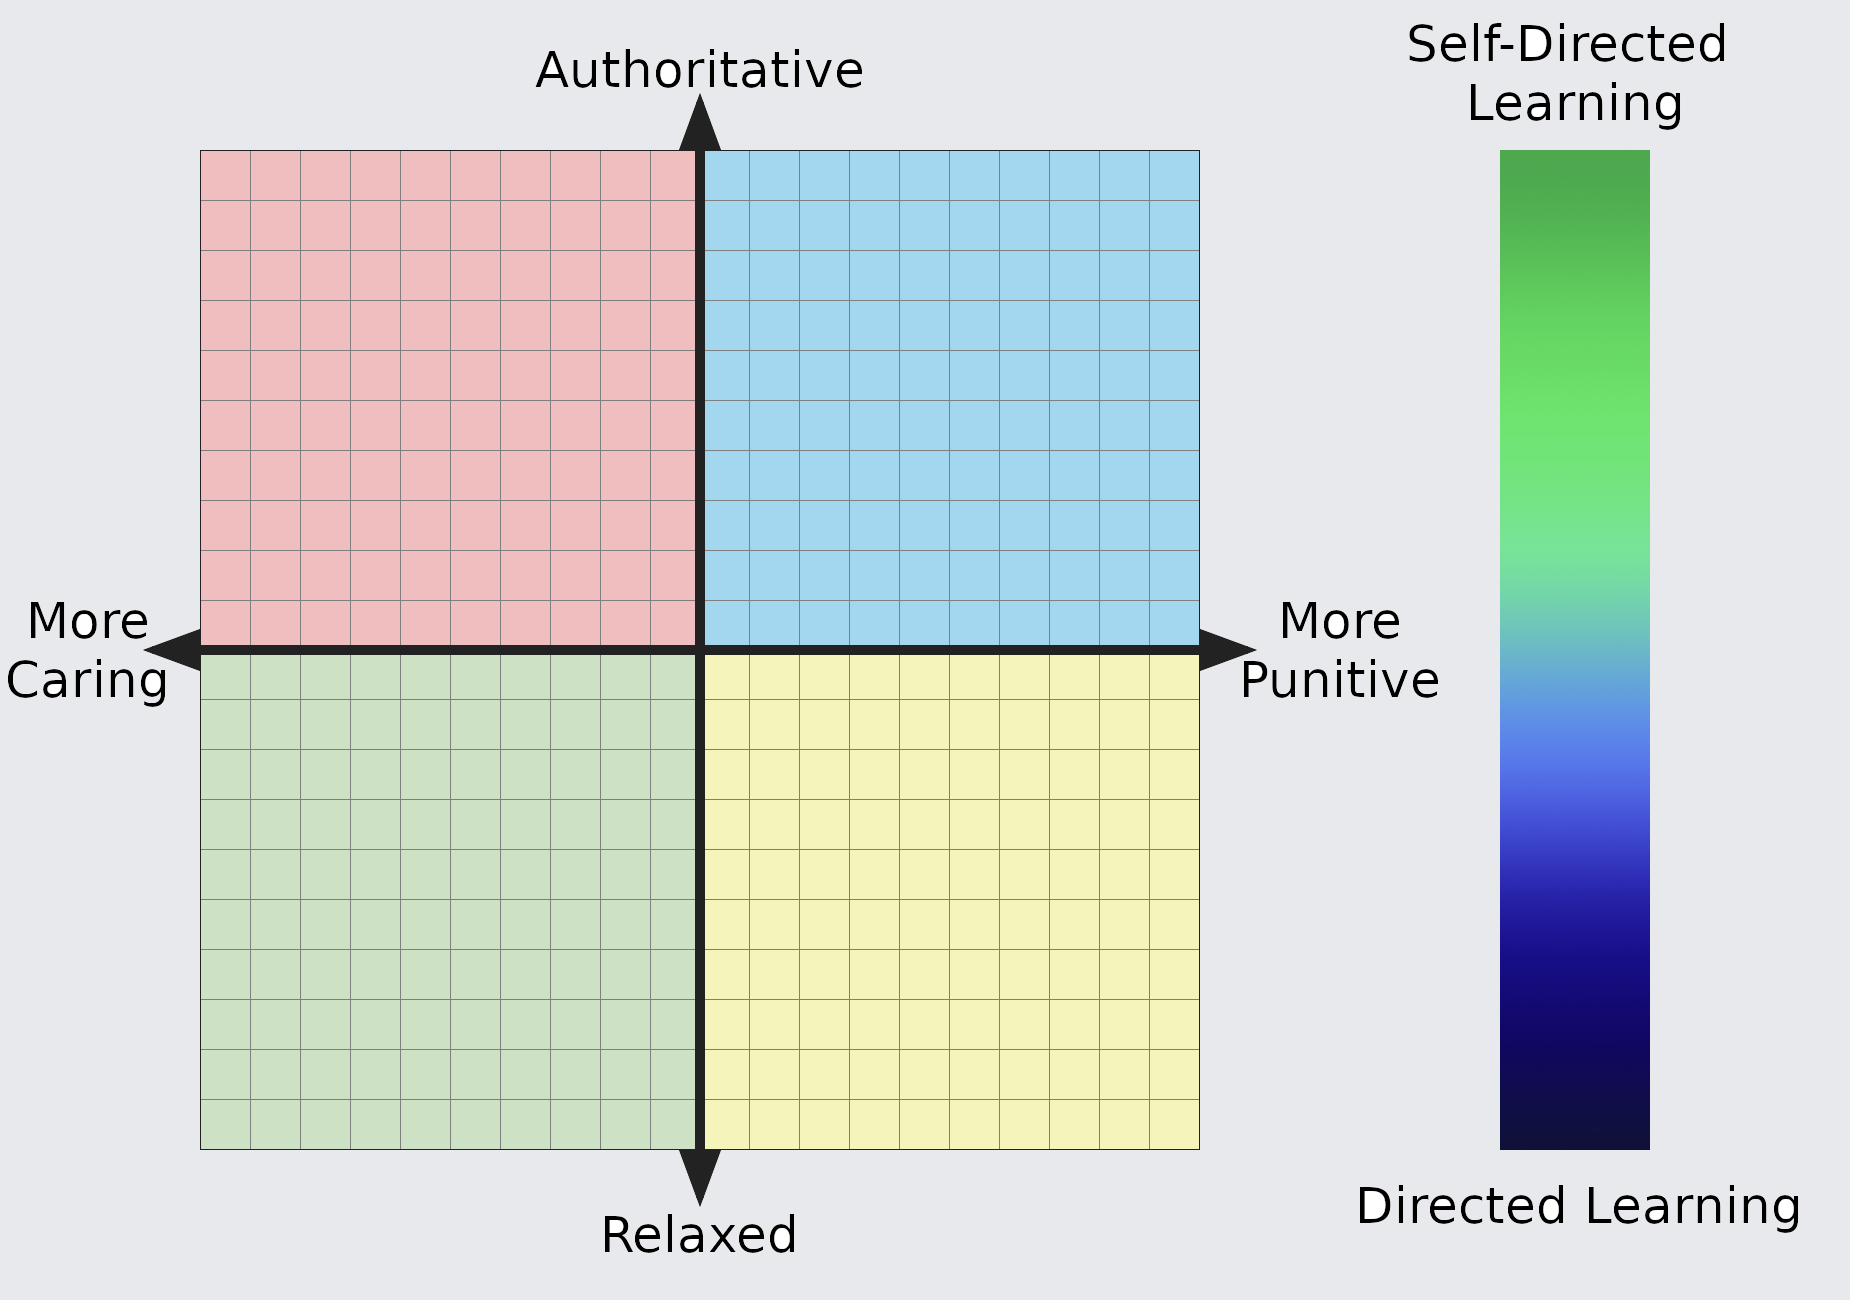
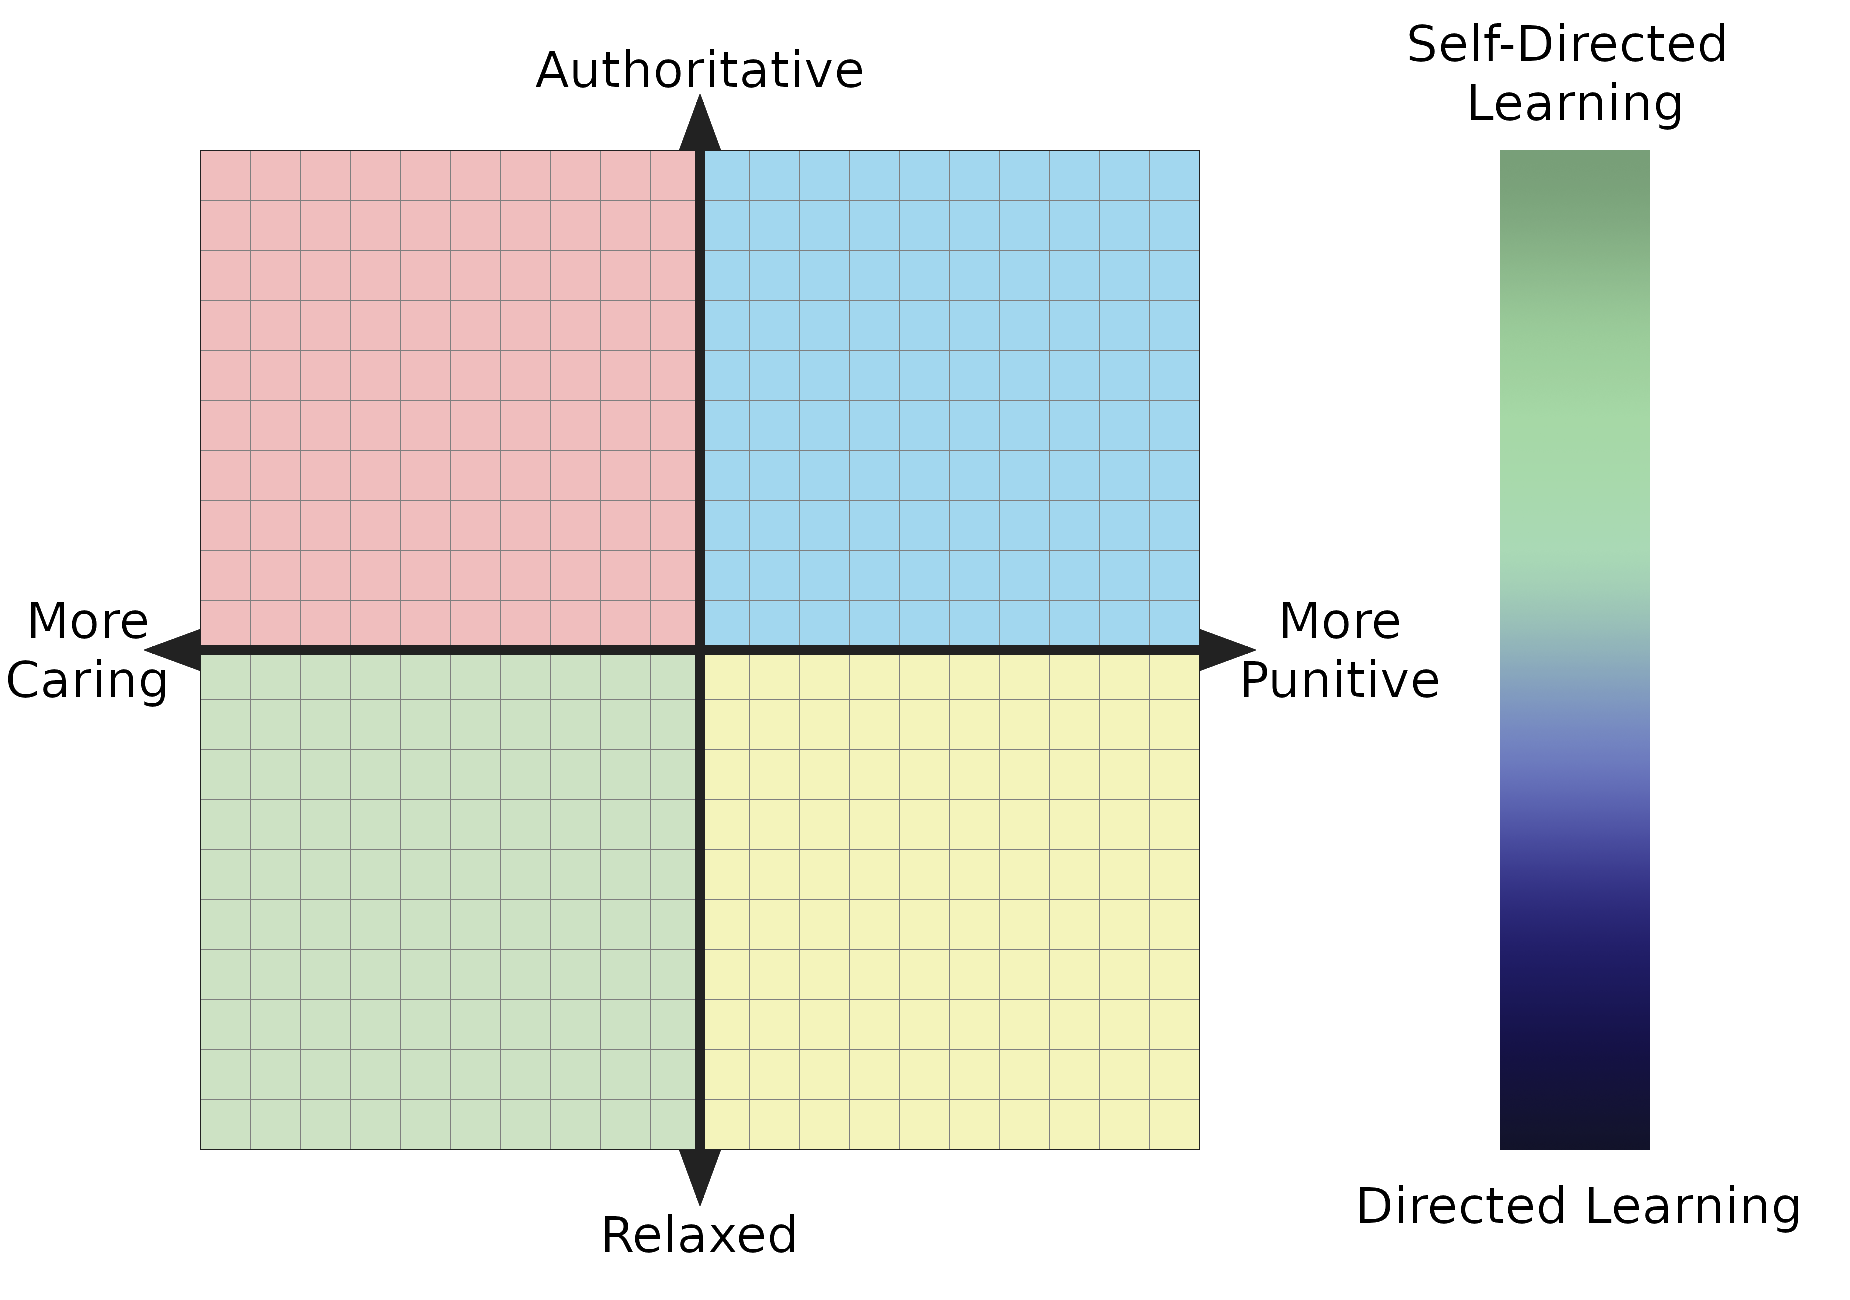
Dark theme now working

Changed region(s): [[0.8011, 0.0923, 0.8935, 0.8308]]

diff --git a/templates/score.html b/templates/score.html
@@ -2,6 +2,7 @@
 
 {% block head %}
   <title> Home - Teacher Compass </title>
+  <link id="pageColors" href="" rel="stylesheet">
 {% endblock %}
 
 {% block content %}
@@ -9,7 +10,7 @@
   <div class="grid-container">
     <!-- Header -->
     <div class="item1">
-        <div class="navbar-title">The Definitive Teacher Compass</div> <div class="navbar-subtext">You are signed in, welcome {{current_user.name}}. <a class="linkButton" href="/home"> Return to homepage </a> <a class="linkButton" href="/logout">Logout</a></div>
+        <div class="navbar-title">The Definitive Teacher Compass</div> <div class="navbar-subtext">You are signed in, welcome {{current_user.name}} <a class="linkButton" onclick="changeTheme()"> Change theme </a> <a class="linkButton" href="/home"> Return to homepage </a> <a class="linkButton" href="/logout">Logout</a></div>
     </div>
 
     <!-- Left spacer
@@ -68,7 +69,7 @@
         </div>
       <p class="info-text"> Welcome to the Burnside teacher compass. On this page you can select
         a teacher and rate them. To return to the main page, click on the link in the top right corner.</p>
-      <br>
+
       <p class="info-text"> <b>X axis:</b> </p>
       <ul>
         <li>More caring: Viewed as more compassionate. You could probably confide and have more casual conversations with them.</li>
@@ -77,14 +78,20 @@
 
       <p class="info-text"> <b>Y axis:</b> </p>
       <ul>
-        <li>Authority: More strict around school guidelines and following directives from the higher ups. Not to be confused with punitive as strict teachers can still be nice. No-nonsense approach to learning. Not someone you would tell a joke to.</li>
-        <li>Relaxed: Less strict around school guidelines. More lenient, especially around minor uniform infractions or being minorly late. Are less controlling over student approaches to learning.</li>
+        <li>Authority: More strict around school guidelines and following directives from the higher ups. Not to be confused
+          with punitive as strict teachers can still be nice. No-nonsense approach to learning. Not someone you would tell a joke to.</li>
+        <li>Relaxed: Less strict around school guidelines. More lenient, especially around minor uniform infractions or being minorly
+          late. Are less controlling over student approaches to learning.</li>
       </ul>
 
       <p class="info-text"> <b>Z axis:</b> </p>
       <ul>
-        <li>Self-directed learning: Less input and control over the path of lessons. Typically more flexible on lessons and time dedicated to certain topics. Class time is more student oriented with plenty of time for students to discuss and individually research. The teacher generally hovers around the class giving assistance to students when it is needed.</li>
-        <li>Directed learning: More input and control over the path of lessons. Less flexible on lessons and time dedicated to certain topics. Class time is teacher oriented with the teacher walking the class through concepts. Little or no time is given to student discussion and individual tasks.</li>
+        <li>Self-directed learning: Less input and control over the path of lessons. Typically more flexible on lessons and time
+          dedicated to certain topics. Class time is more student oriented with plenty of time for students to discuss and individually
+          research. The teacher generally hovers around the class giving assistance to students when it is needed.</li>
+        <li>Directed learning: More input and control over the path of lessons. Less flexible on lessons and time dedicated to certain
+          topics. Class time is teacher oriented with the teacher walking the class through concepts. Little or no time is given to
+          student discussion and individual tasks.</li>
       </ul>
     </div>
 
@@ -102,6 +109,13 @@
 
 {% block script %}
 <script>
+  const drawColor = () => getComputedStyle(document.documentElement).getPropertyValue('--c_draw')
+  const compassImage = () => getComputedStyle(document.documentElement).getPropertyValue('--img_compass')
+
+  window.addEventListener('load', () => {
+    console.log(compassImage());
+  })
+
   function fetchValues() {
     /* Ask the database for the x, y and z values for the newly selected teacher code */
     if (document.querySelector(".teacherCodeSelect").selectedIndex != 0)
@@ -145,18 +159,7 @@
       {
         document.querySelector("[name=zInput]").value = ((((y - 66) - 216) / 216) * 10).toFixed(2);
       }
-
-
-
     }
-
-
-    // Round:
-    //document.querySelectorAll(".axis").forEach(item => {
-    //  item.value = Math.round(item.value * 100) / 100;  // Round to 2dp
-    //});
-
-
     axisUpdated();
   }
 
@@ -170,14 +173,17 @@
   /*console.log("here "); */
   const context = document.querySelector("#compassCanvas").getContext("2d");
   const image = new Image();
-  image.src = "/static/compass.png";
-  image.addEventListener("load", () => {
-    context.drawImage(image, 0, 0, 800, 562);
-    axisUpdated();
-  });
+  window.addEventListener('load', () => {
+    image.src = compassImage();
+    image.addEventListener("load", () => {
+      context.drawImage(image, 0, 0, 800, 562);
+      axisUpdated();
+    });
+  })
 
   function axisUpdated() {
     /*console.log("2") */
+    image.src = compassImage();
     context.clearRect(0, 0, 800, 562);
     context.drawImage(image, 0, 0, 800, 562);
     if (document.querySelector(".teacherCodeSelect").selectedIndex != 0)
@@ -190,7 +196,7 @@
       const posZ = parseFloat(document.querySelector("[name=zInput]").value) * 21.6 + 281;
       context.arc(posX, posY, 5, 0, 2 * Math.PI);
       context.arc(681, posZ, 5, 0, 2 * Math.PI);
-      context.fillStyle = 'red';
+      context.fillStyle = drawColor();
       context.fill();
     }
 
@@ -213,5 +219,27 @@
       axisUpdated()
     }));
 
+
+    // THEME:
+
+    function changeTheme() {
+        // theme = theme === 'light' ? 'dark' : 'light'
+        if (localStorage.getItem('theme') === 'dark') {
+          localStorage.setItem('theme', 'light')
+        } else {
+          localStorage.setItem('theme', 'dark')
+        }
+
+        setTheme()
+    }
+    function setTheme() {
+      let stylesheet = "/static/styleColorsLight.css";  // Light theme is default
+      if (localStorage.getItem('theme') == 'dark') stylesheet = "/static/styleColorsDark.css";
+      document.getElementById("pageColors").setAttribute("href", stylesheet);
+      axisUpdated()
+    }
+    window.addEventListener("onLoad", setTheme() );
+
+    // --------------------
 </script>
 {% endblock %}

diff --git a/templates/home.html b/templates/home.html
@@ -2,6 +2,7 @@
 
 {% block head %}
   <title> Home - Teacher Compass </title>
+  <link id="pageColors" href="" rel="stylesheet">
 {% endblock %}
 
 {% block content %}
@@ -11,9 +12,9 @@
 
     <div class="item1">
     {% if current_user.is_authenticated %}
-      <div class="navbar-title">The Definitive Teacher Compass</div> <div class="navbar-subtext">You are signed in, welcome {{current_user.name}}. <a class="linkButton" href="/score"> Submit your own values </a>   <a class="linkButton" href="/logout">Logout</a> </div>
+      <div class="navbar-title">The Definitive Teacher Compass</div> <div class="navbar-subtext">You are signed in, welcome {{current_user.name}} <a class="linkButton" onclick="changeTheme()"> Change theme </a> <a class="linkButton" href="/score"> Submit your own values </a>   <a class="linkButton" href="/logout">Logout</a> </div>
     {% else %}
-      <div class="navbar-title">The Definitive Teacher Compass</div> <div class="navbar-subtext"> Please log in to submit your own values. <a class="linkButton" href="/login">Login</a> </div>
+      <div class="navbar-title">The Definitive Teacher Compass</div> <div class="navbar-subtext"> Please log in to submit your own values <a class="linkButton" href="/login">Login</a> </div>
     {% endif %}
     </div>
 
@@ -78,11 +79,16 @@
 
 {% block script %}
 <script>
+  const drawColor = () => getComputedStyle(document.documentElement).getPropertyValue('--c_draw');
+  const compassImage = () => getComputedStyle(document.documentElement).getPropertyValue('--img_compass');
+
+  console.log(getComputedStyle(document.documentElement).getPropertyValue("--c_draw") );
+
   var teacher_averages = {{teacher_averages|safe}}
 
   const context = document.querySelector("#compassCanvas").getContext("2d");
   const image = new Image();
-  image.src = "/static/compass.png";
+  image.src = compassImage().trim();
   image.addEventListener("load", () => {
     context.drawImage(image, 0, 0, 800, 562);
     axisUpdated();
@@ -90,6 +96,7 @@
 
   function axisUpdated()  {
     context.clearRect(0, 0, 800, 562);
+    console.log("drawing image: ", image);
     context.drawImage(image, 0, 0, 800, 562);
 
     if (document.querySelector("[id=teacherCheckbox]").checked) {
@@ -100,7 +107,7 @@
       const posX = parseFloat(teacherValues[0]) * 21.6 + 303;
       const posY = -parseFloat(teacherValues[1]) * 21.6 + 281;
       const posZ = parseFloat(teacherValues[2]) * 21.6 + 281;
-      context.fillStyle = 'red';
+      context.fillStyle = drawColor();
 
       context.font = "15px Arial";
       context.arc(posX , posY , 5, 0, 2 * Math.PI);
@@ -118,7 +125,7 @@
         const posX = parseFloat(val[0]) * 21.6 + 303;
         const posY = -parseFloat(val[1]) * 21.6 + 281;
         const posZ = parseFloat(val[2]) * 21.6 + 281;
-        context.fillStyle = 'red';
+        context.fillStyle = drawColor();
 
         context.font = "15px Arial";
         context.arc(posX , posY , 5, 0, 2 * Math.PI);
@@ -136,5 +143,27 @@
 
     console.log(">>> ", teacher);
   };
+
+  // THEME:
+
+  function changeTheme() {
+      // theme = theme === 'light' ? 'dark' : 'light'
+      if (localStorage.getItem('theme') === 'dark') {
+        localStorage.setItem('theme', 'light')
+      } else {
+        localStorage.setItem('theme', 'dark')
+      }
+
+      setTheme()
+  }
+  function setTheme() {
+    let stylesheet = "/static/styleColorsLight.css";  // Light theme is default
+    if (localStorage.getItem('theme') == 'dark') stylesheet = "/static/styleColorsDark.css";
+    document.getElementById("pageColors").setAttribute("href", stylesheet);
+    axisUpdated()
+  }
+  window.addEventListener("onLoad", setTheme() );
+
+  // --------------------
 </script>
 {% endblock %}

diff --git a/static/style.css b/static/style.css
@@ -11,19 +11,20 @@
 .linkButton {
   display: inline-block;
   line-height: 1;
-  border-width: 1px;
+  border-width: 0px;
   padding: 4px;
-  border-radius: 2px;
+  border-radius: 4px;
   border-style: solid;
-  border-color: var(--c_text);
-  background-color: var(--c_backgroundLight);
-  color:var(--c_headText);
+
+
+  color: var(--c_red);
   text-decoration: none;
   cursor:link;
 }
 
 .linkButton:hover {
-  color: var(--c_red);
+
+  background-color: var(--c_backgroundLight);
 }
 
 .footer-text {

diff --git a/static/styleColorsDark.css b/static/styleColorsDark.css
@@ -1,0 +1,16 @@
+/* Colors!  */
+
+/*
+
+https://coolors.co/f6bcbd-99d9f6-ccdec9-f1f1af-35363a-2264aa-6596cd-f5f4f5-886e78-937b84
+
+*/
+:root {
+  --img_compass: /static/compassDark.png;
+  --c_background: #35363A; /* Background color*/
+  --c_headText: #2264AA; /* Header text color*/
+  --c_text: #DADCE0; /* Small text color*/
+  --c_backgroundLight: #303236; /* Link button lightup */
+  --c_red: #A54657;
+  --c_draw: #CC474B;
+}

diff --git a/static/styleColorsLight.css b/static/styleColorsLight.css
@@ -1,8 +1,10 @@
 /* Colors!  */
 :root {
+  --img_compass: /static/compass.png;
   --c_background: #e8e9ec; /* Background color*/
   --c_headText: #2d539e; /* Header text color*/
   --c_text: #262a3f; /* Small text color*/
   --c_backgroundLight: #cccdcf; /* */
   --c_red: #cc517a;
+  --c_draw: #CC474B;
 }

diff --git a/templates/layout.html b/templates/layout.html
@@ -8,7 +8,7 @@
     <title>Teacher Compass</title>
   {% endblock %}
 
-  <link href="/static/styleColorsLight.css" rel="stylesheet">
+  
   <link href="/static/style.css" rel="stylesheet">
 </head>
 
